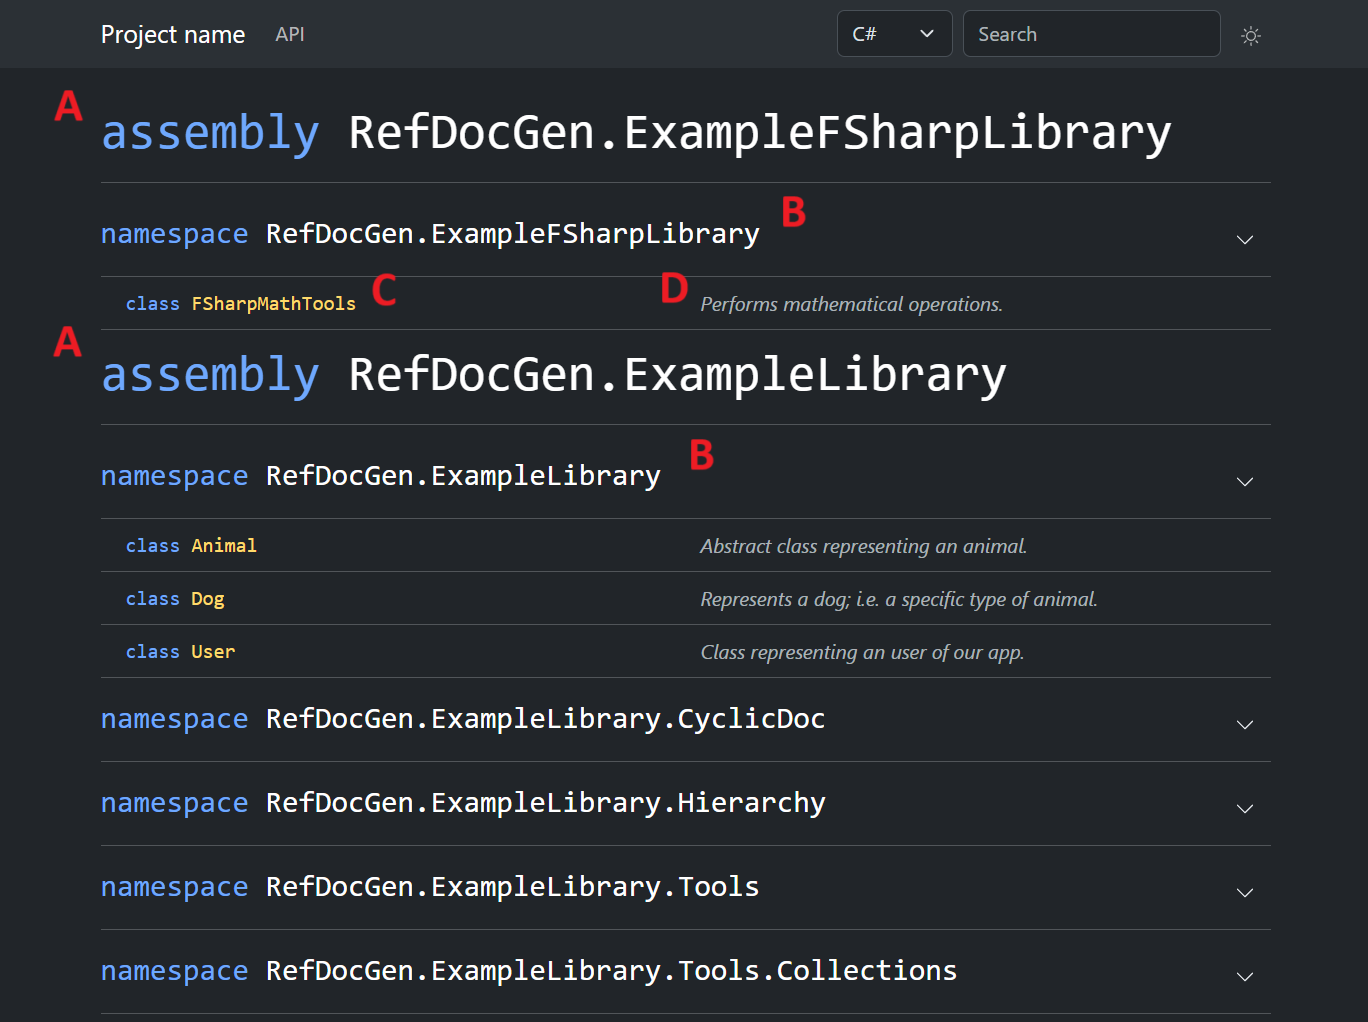
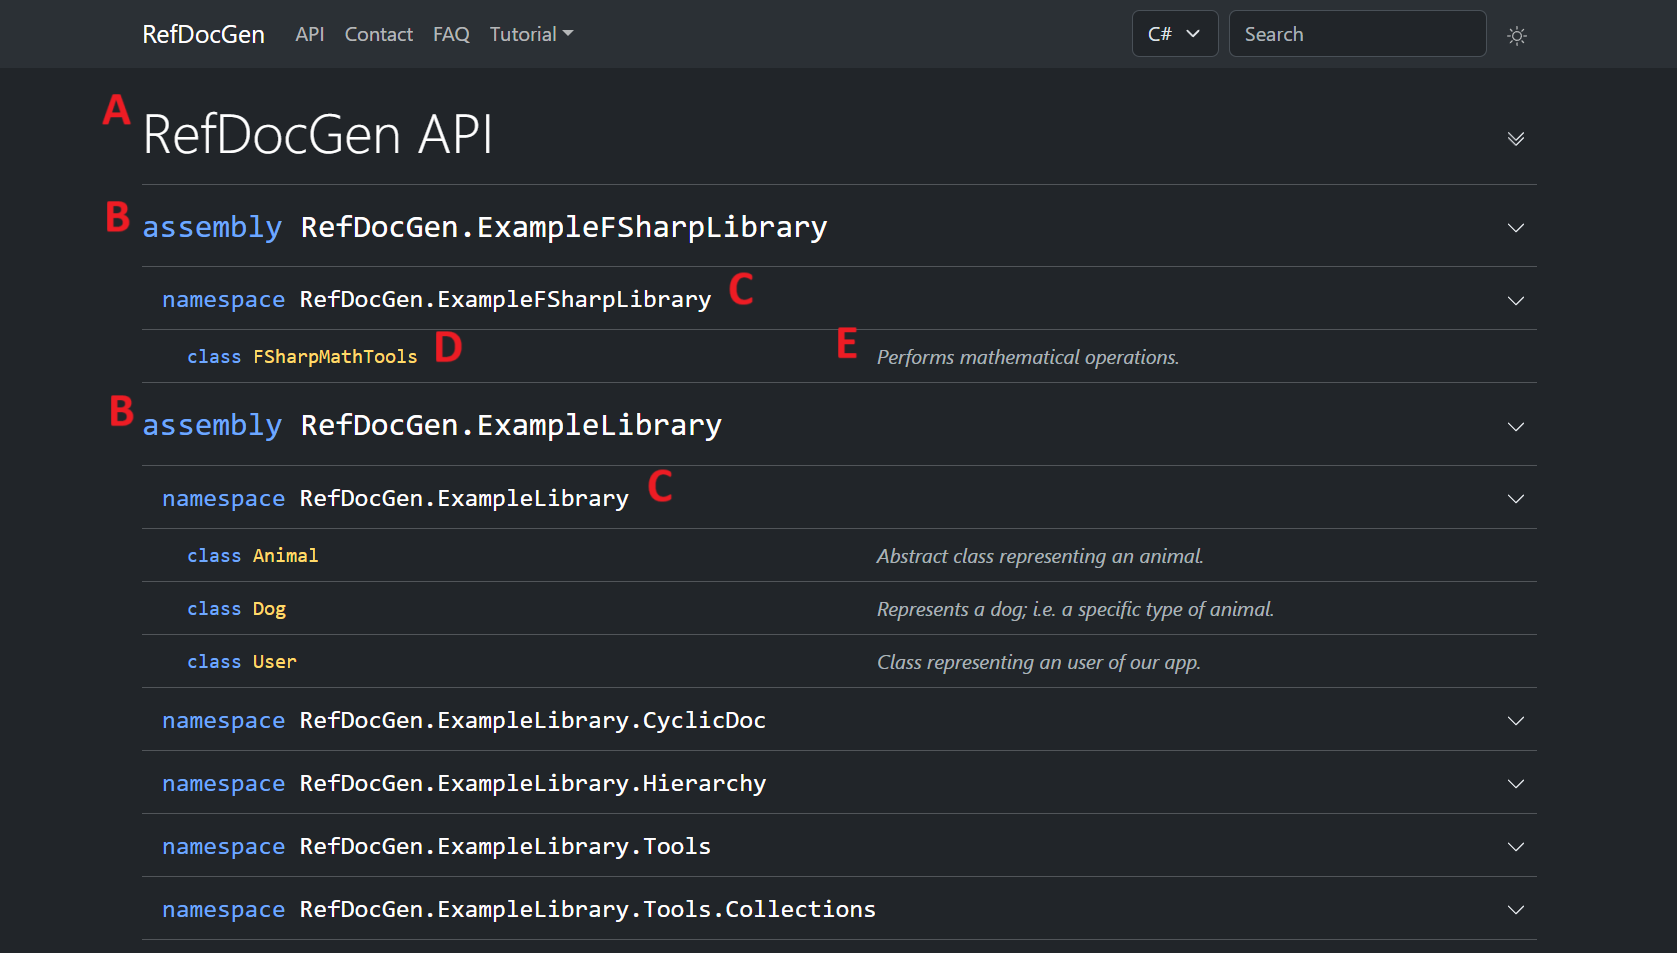
before images regenerated

diff --git a/chap04.tex b/chap04.tex
@@ -1160,7 +1160,7 @@ This way, the language is added to the default UI.
 \chapter{User documentation}
 
 This chapter provides the user documentation of our program, covering its installation, usage, and UI.
-The tutorials describing how to generate reference documentation for selected projects are contained in Section~\ref{ch:six}.
+The tutorials describing how to generate reference documentation for selected projects are contained in Chapter~\ref{ch:six}.
 
 \section{Installation}
 
@@ -1186,6 +1186,7 @@ Additionally, it is also important to set the \texttt{CopyLocalLockFileAssemblie
 
 These properties can be specified on the command line when running \texttt{dotnet build}, as shown in Figure~\ref{lst:ui-building-project}.
 Alternatively, it is possible to set them in the project file or \texttt{Directory.Build.props} file, as further explained in the documentation~\cite{net_customize_build}.
+Additionally, although it is not the typical use case, \textit{RefDocGen} can also generate reference documentation of desktop and web applications. However, in such cases, the project must be built as self-contained.
 
 \begin{listing}[H]
 \begin{lstlisting}[language=HTML]
@@ -1264,7 +1265,7 @@ INPUT (pos. 0)                      Required. The assembly, project,
 \newpage
 
 The only required value is the \texttt{INPUT} argument, which could be an assembly, a project, or a solution to document, as illustrated in Listing~\ref{lst:cmd-line-simple-example}.
-Alternatively, a YAML configuration file may be used, as explained later in section~\ref{sec:user-docs-yaml}.
+Alternatively, a YAML configuration file may be used, as explained later in Section~\ref{sec:user-docs-yaml}.
 
 \begin{listing}[H]
 \begin{lstlisting}[language=HTML]
@@ -1281,18 +1282,19 @@ refdocgen refdocgen.yaml
 
 We can select the output directory, using the \texttt{-o} flag.
 Next, the \texttt{-t} option allows us to select a documentation template. 
-Currently, only the default template is available; however, it is possible to add custom documentation templates, as further described in sections~\ref{sec:extensibility-custom-razor} and~\ref{sec:extensibility-custom-template-processor}.
+Currently, only the default template is available; however, it is possible to add custom documentation templates, as further described in Sections~\ref{sec:extensibility-custom-razor} and~\ref{sec:extensibility-custom-template-processor}.
 
 When the \texttt{-v} flag is specified, the log level is set to verbose; thus, all log events are displayed.
 Before describing the \texttt{-f} flag, it is important to note that the program intentionally fails
 if the output directory exists and is not empty (and the documentation is not versioned) to prevent users from accidentally overwriting data.
 To override this behavior, and thus delete the output directory before the documentation is generated, the \texttt{-f} flag can be used.
-Next, using the \texttt{-s} flag, the current configuration can be saved to a YAML file, as explained in section~\ref{sec:user-docs-yaml} in more detail.
+Next, using the \texttt{-s} flag, the current configuration can be saved to a YAML file, as explained in Section~\ref{sec:user-docs-yaml} in more detail.
 Additionally, it is possible to provide custom static pages as well as create a specific version of the documentation 
-by specifying the \texttt{--static-pages-dir} and \texttt{--doc-version} options, respectively, as further described in sections~\ref{sec:user-docs-static-pages} and~\ref{sec:user-docs-versions}.
+by specifying the \texttt{--static-pages-dir} and \texttt{--doc-version} options, respectively, as further described in Sections~\ref{sec:user-docs-static-pages} and~\ref{sec:user-docs-versions}.
 
 Next, it is possible to configure which types and members are included in the documentation.
 Using the \texttt{--min-visibility} flag, we can select only the members with the given visibility or higher.
+The individual option values correspond to the \texttt{private}, \texttt{private protected}, \texttt{internal}, \texttt{protected}, \texttt{protected internal}, and \texttt{public} modifiers in C\#.
 Additionally, we can select which inherited members should be included by specifying the \texttt{--inherit-members} option.
 When set to \texttt{None}, no inherited members are contained in the documentation, while when using \texttt{All}, the documentation displays all inherited members.
 However, in most cases, we would likely want to include all inherited members, except those inherited from the \texttt{object} type, 
@@ -1456,11 +1458,10 @@ When using the \texttt{--verbose} flag, additional details about the error (such
 \section{UI}
 
 After the documentation is generated, it can be viewed by opening the \texttt{index.html} file located in the output directory. 
-If a custom \texttt{index} page has been provided, as described in section~\ref{sec:user-docs-static-pages}, it is displayed; otherwise, the user is redirected to the API homepage. 
+If a custom \texttt{index} page has been provided, as described in Section~\ref{sec:user-docs-static-pages}, it is displayed; otherwise, the user is redirected to the API homepage. 
 In both cases, the API homepage remains accessible via the \textit{API} link in the top menu.
 
-The API homepage shows a list of assemblies (A), namespaces (B), and the types contained within them (C), as illustrated in Figure~\ref{fig:refdocgen-api-homepage}.
-For each type, its \textit{summary} documentation is displayed (D), if provided.
+The API homepage shows the project name (A), a list of assemblies (B), namespaces (C), and the types contained within them (D), along with their \textit{summary} documentation (E), as illustrated in Figure~\ref{fig:refdocgen-api-homepage}.
 Assembly, type, and namespace names are clickable and redirect the user to the corresponding page.
 Then, there is a dedicated page for each assembly, which looks almost identical to the API homepage, as displayed in Figure~\ref{fig:refdocgen-assembly-page}, with the only difference being that it shows only the types contained in the given assembly.
 Additionally, there is a separate page for each namespace, as shown in Figure~\ref{fig:refdocgen-ns-page}, which displays the contained types (C) with their documentation (D) once again.
@@ -1729,7 +1730,7 @@ refdocgen Serilog.dll --doc-version v-serilog
 \label{lst:demo-other-two}
 \end{listing}
 
-The reference documentation is stored in the \texttt{\~/refdocgen-demo} directory, while again, we did not encounter any errors.
+The reference documentation is stored in the \texttt{\textasciitilde/refdocgen-demo} directory, while again, we did not encounter any errors.
 Additionally, the screenshots displaying the documentation of these libraries are shown in Figures~\ref{fig:eval-newtonsoft-home},
 \ref{fig:eval-newtonsoft-type}, \ref{fig:eval-yaml-home}, \ref{fig:eval-yaml-type}, \ref{fig:eval-serilog-home}, and \ref{fig:eval-serilog-type}.
 When browsing the documentation, it is possible to switch between the versions, which represent the individual libraries, on the API homepage, as this is likely the only page present in all three versions.

diff --git a/thesis.tex b/thesis.tex
@@ -171,10 +171,11 @@
 \dirtree{%
 .1 ..
 .2 refdocgen/.
-.3 README.md \DTcomment{\texttt{README} file}.
-.3 RefDocGen.sln \DTcomment{\texttt{RefDocGen} solution}.
+.3 README.md \DTcomment{\textit{README} file}.
+.3 LICENSE \DTcomment{project license}.
+.3 RefDocGen.sln \DTcomment{\textit{RefDocGen} solution}.
 .3 src/.
-.4 RefDocGen/ \DTcomment{\texttt{RefDocGen} project}.
+.4 RefDocGen/ \DTcomment{\textit{RefDocGen} project}.
 .3 tests.
 .4 RefDocGen.ExampleLibrary/ \DTcomment{main example library (in C\#)}.
 .4 RefDocGen.ExampleFSharpLibrary/ \DTcomment{example library in F\#}.
@@ -182,9 +183,9 @@
 .4 RefDocGen.IntegrationTests/ \DTcomment{integration tests project}.
 .4 RefDocGen.UnitTests/ \DTcomment{unit tests project}.
 .2 docs/.
-.3 example-library/ \DTcomment{documentation of \texttt{RefDocGen.ExampleLibrary}}.
-.3 refdocgen/ \DTcomment{documentation of \texttt{RefDocGen}}.
-.3 third-party/ \DTcomment{documentation of \texttt{Newtonsoft.JSON}, \texttt{YamlDotNet}, and \texttt{Serilog} packages}.
+.3 example-library/ \DTcomment{documentation of \textit{RefDocGen.ExampleLibrary}}.
+.3 refdocgen/ \DTcomment{documentation of \textit{RefDocGen}}.
+.3 third-party/ \DTcomment{documentation of \textit{Newtonsoft.JSON}, \textit{YamlDotNet}, and \textit{Serilog} packages}.
 }
 
 \end{document}
